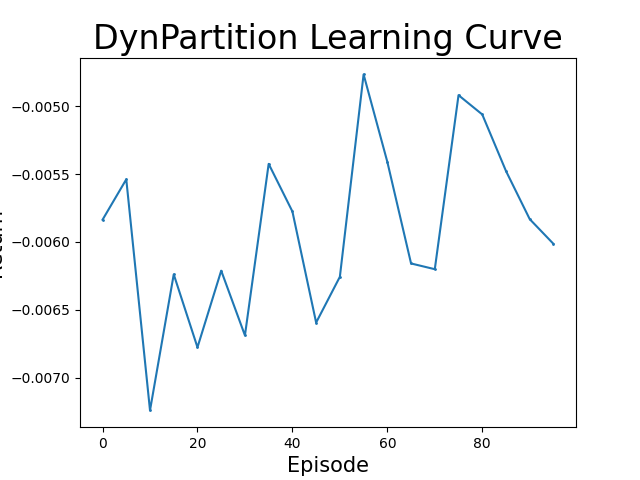
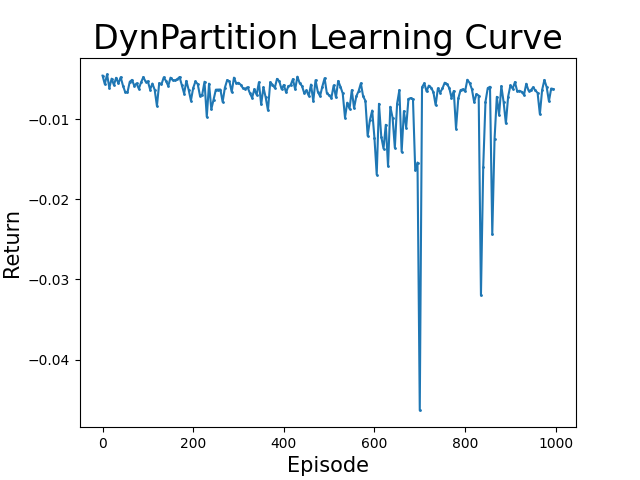
Add print for device allocations

diff --git a/dynpartition/partitioner/scheduler_env.py b/dynpartition/partitioner/scheduler_env.py
@@ -10,18 +10,16 @@ from resnet import PipelineParallelResNet50
 from dynpartition.dataset.encoding_trees import create_tree_embedding_dataset
 from dynpartition.dataset.load import load_tree_lstm
 from dynpartition.partitioner.partitioner_utils import \
-    device_id_to_device_string, device_id_to_device, ALL_DEVICES
+    device_id_to_device_string, device_id_to_device, allocation_summary, ALL_DEVICES
 from dynpartition.partitioner.async_execution import test_model_with
 
 batch_size = 30  # 120
-
-
 MAX_NODES = 128
 
 
 class SchedulerEnv(gym.Env):
     num_batches = 1
-    num_repeat = 1  # increase for variance reduction when computing rewards
+    num_repeat = 10  # increase for variance reduction when computing rewards
 
     def __init__(self, is_train=True, render_mode=None):
         # Do not support render_mode for now
@@ -94,7 +92,7 @@ class SchedulerEnv(gym.Env):
         for idx, device_id in enumerate(action):
             device_allocations[idx] = device_id_to_device_string(device_id)
 
-        # print("Allocation:", device_allocations)
+        allocation_summary(device_allocations)
 
         self.current_batch += 1
 

diff --git a/dynpartition/partitioner/partitioner_utils.py b/dynpartition/partitioner/partitioner_utils.py
@@ -38,3 +38,8 @@ def tensors_to_device(
         return tuple(t.to(device=device) for t in tensors)
     else:
         return tensors.to(device=device)
+
+
+def allocation_summary(device_allocations):
+    inv_list = {v: k for k, v in device_allocations.items()}.items()
+    print("Device allocations", inv_list)

diff --git a/dynpartition/partitioner/rl_partitioner.py b/dynpartition/partitioner/rl_partitioner.py
@@ -98,7 +98,7 @@ def pipeline_parallelism():
 
 def main():
     num_seeds = 1
-    num_episodes = 500
+    num_episodes = 1000
     num_test_episodes = 5
     episodes_between_test = 5
     l = num_episodes // episodes_between_test
